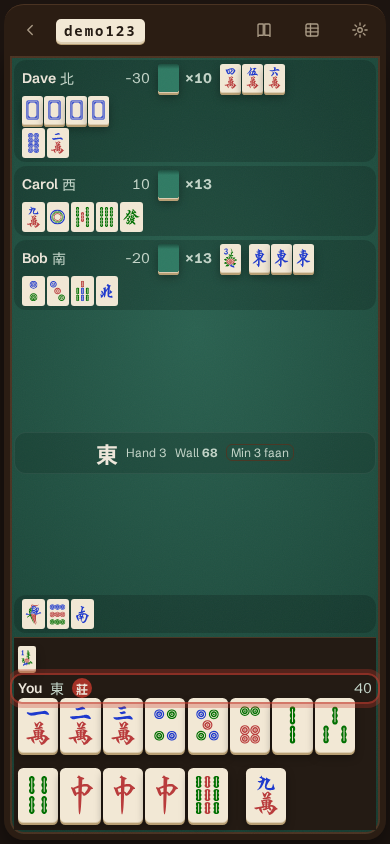
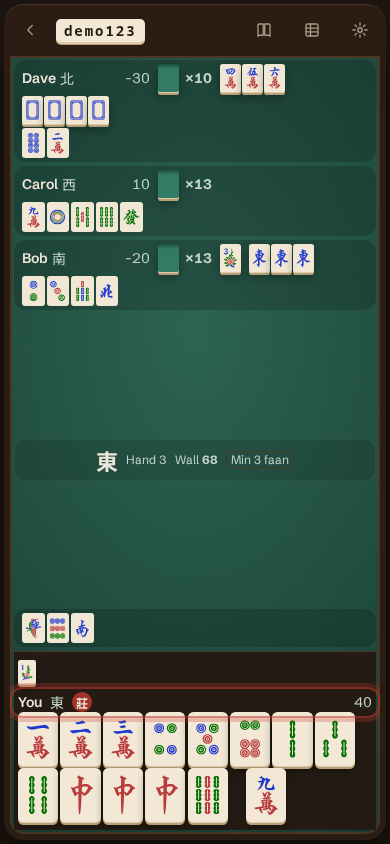
feat(web): flush two-row phone hand
- portrait hand rows sit --hand-gap apart instead of reserving the lift height
- a lifted tile only takes taps in its own slot, so the tile it overlaps stays tappable

diff --git a/web/src/lib/table/YourSeatRegion.svelte.spec.ts b/web/src/lib/table/YourSeatRegion.svelte.spec.ts
@@ -1,5 +1,5 @@
 import { describe, it, expect, afterEach, vi } from 'vitest';
-import { userEvent } from 'vitest/browser';
+import { page, userEvent } from 'vitest/browser';
 import { flushSync } from 'svelte';
 import { render, cleanupAll } from './test-render';
 import YourSeatRegion from './YourSeatRegion.svelte';
@@ -224,5 +224,60 @@ describe('YourSeatRegion keyboard hand model', () => {
 		flushSync();
 		await userEvent.keyboard('H');
 		expect(document.activeElement).toBe(target.querySelector('.hand-row'));
+	});
+});
+
+describe('YourSeatRegion portrait phone two-row hand', () => {
+	afterEach(() => {
+		cleanupAll();
+	});
+
+	it('a lifted second-row tile does not take taps meant for the tile above it', async () => {
+		await page.viewport(390, 844);
+		// app.scss's tokens aren't loaded in a component spec; the hand's width calc needs these.
+		for (const [name, value] of [
+			['--space-1', '0.25rem'],
+			['--space-2', '0.5rem'],
+			['--space-4', '1rem']
+		])
+			document.documentElement.style.setProperty(name, value);
+		const codes = [
+			'1m',
+			'2m',
+			'3m',
+			'4m',
+			'5m',
+			'6m',
+			'7m',
+			'8m',
+			'9m',
+			'1p',
+			'2p',
+			'3p',
+			'4p',
+			'5p'
+		] as const;
+		const onDiscard = vi.fn();
+		const { target } = render(YourSeatRegion, {
+			...baseProps('two-step', onDiscard),
+			ownHandTiles: codes.map((code, i) => ({ key: `c-${i}`, code, tileId: i, drawn: i === 13 })),
+			discardableTileIds: new Set(codes.map((_, i) => i))
+		});
+		const btns = [...target.querySelectorAll<HTMLButtonElement>('.hand-tile-btn')];
+		const above = btns[1].getBoundingClientRect();
+		const below = btns[9].getBoundingClientRect();
+		expect(below.top).toBeGreaterThan(above.top);
+		expect(below.top - above.bottom).toBeLessThanOrEqual(3);
+
+		btns[9].click();
+		flushSync();
+		expect(btns[9].classList.contains('hand-tile--lifted')).toBe(true);
+		expect(btns[9].getBoundingClientRect().top).toBeLessThan(above.bottom);
+
+		const x = above.left + above.width / 2;
+		const hit = (y: number) => document.elementFromPoint(x, y)?.closest('.hand-tile-btn');
+		expect(hit(above.bottom - 2)).toBe(btns[1]);
+		expect(hit(below.top + below.height / 2)).toBe(btns[9]);
+		expect(onDiscard).not.toHaveBeenCalled();
 	});
 });

diff --git a/web/src/lib/table/YourSeatRegion.svelte b/web/src/lib/table/YourSeatRegion.svelte
@@ -534,7 +534,7 @@
 	}
 
 	// portrait phone: 14 tiles in one row overlap to ~half a face, so wrap to rows of 8 that
-	// never overlap; the centre has height to spare. row-gap clears a lifted second-row tile.
+	// never overlap; the centre has height to spare.
 	@include layout.phone-portrait {
 		.seat-region--self {
 			padding-inline: var(--space-1);
@@ -548,11 +548,22 @@
 			);
 			--hand-step: var(--hand-gap);
 			flex-wrap: wrap;
-			row-gap: calc(var(--hand-tile-w) * 0.4);
+			row-gap: var(--hand-gap);
 		}
 
 		.hand-tile-slot:nth-child(8n + 1):not(.hand-tile-slot--drawn) {
 			margin-inline-start: 0;
+		}
+
+		// rows sit 2px apart, so a lifted tile overlaps the row above: only its own slot takes the
+		// tap, or a tap on the tile behind it would discard the lifted one.
+		.hand-tile-btn.hand-tile--lifted {
+			pointer-events: none;
+
+			&::after {
+				top: 30%;
+				pointer-events: auto;
+			}
 		}
 	}
 

diff --git a/web/src/routes/table/[id]/table.e2e.ts b/web/src/routes/table/[id]/table.e2e.ts
@@ -207,6 +207,8 @@ test('a portrait phone wraps the hand into two rows of non-overlapping tiles', a
 		.evaluateAll((els) => els.map((el) => el.getBoundingClientRect().toJSON()));
 	expect(boxes).toHaveLength(14);
 	expect(new Set(boxes.map((b) => Math.round(b.top))).size).toBe(2);
+	// rows sit flush (--hand-gap), no lift reservation between them.
+	expect(boxes[8].top - boxes[0].bottom).toBeLessThanOrEqual(3);
 	for (const [i, a] of boxes.entries()) {
 		expect(a.width).toBeGreaterThanOrEqual(36);
 		for (const b of boxes.slice(i + 1)) {

diff --git a/docs/frontend.md b/docs/frontend.md
@@ -233,10 +233,12 @@ rows of 8 instead (`flex-wrap`, tile width `clamp(36px, fit-8, 63px)`, ~40px at 
 plus the drawn tile stays on one row) — one row of
 14 overlapped to ~half a face there, hiding tiles and sending taps to the neighbour, while the
 centre had height to spare. Page padding, rim and felt padding shrink there too (they took ~84px of
-390). `row-gap` equals the two-step lift (30% of tile height), so a lifted second-row tile never
-covers the row above. There is no top pad: on every phone layout the hand sits flush under your
-`SeatPlate` (the self region's `row-gap: 0`), and a lifted first-row tile overlaps the plate —
-it's `z-index: 1` above it and stays the tap target, so the lift keeps its desktop 30%.
+390). The rows sit `--hand-gap` (2px) apart, like the columns, and there is no top pad: on every
+phone layout the hand sits flush under your `SeatPlate` (the self region's `row-gap: 0`). So a
+lifted tile (`z-index: 1`, the desktop 30% lift) overlaps the plate or the row above. In portrait
+it only takes taps in its own original slot (`pointer-events: none` on the button, `auto` on its
+`::after` hit area), so a tap on the tile it overlaps reaches that tile instead of discarding the
+lifted one (pinned by `YourSeatRegion.svelte.spec.ts`).
 
 **Phone landscape** keeps one row, with tiles `clamp(44px, min(fit-14, 16dvh × 3/4), 56px)` —
 height-bound, since the hand can't take more of a ~390px-tall screen. Your melds/flowers sit
